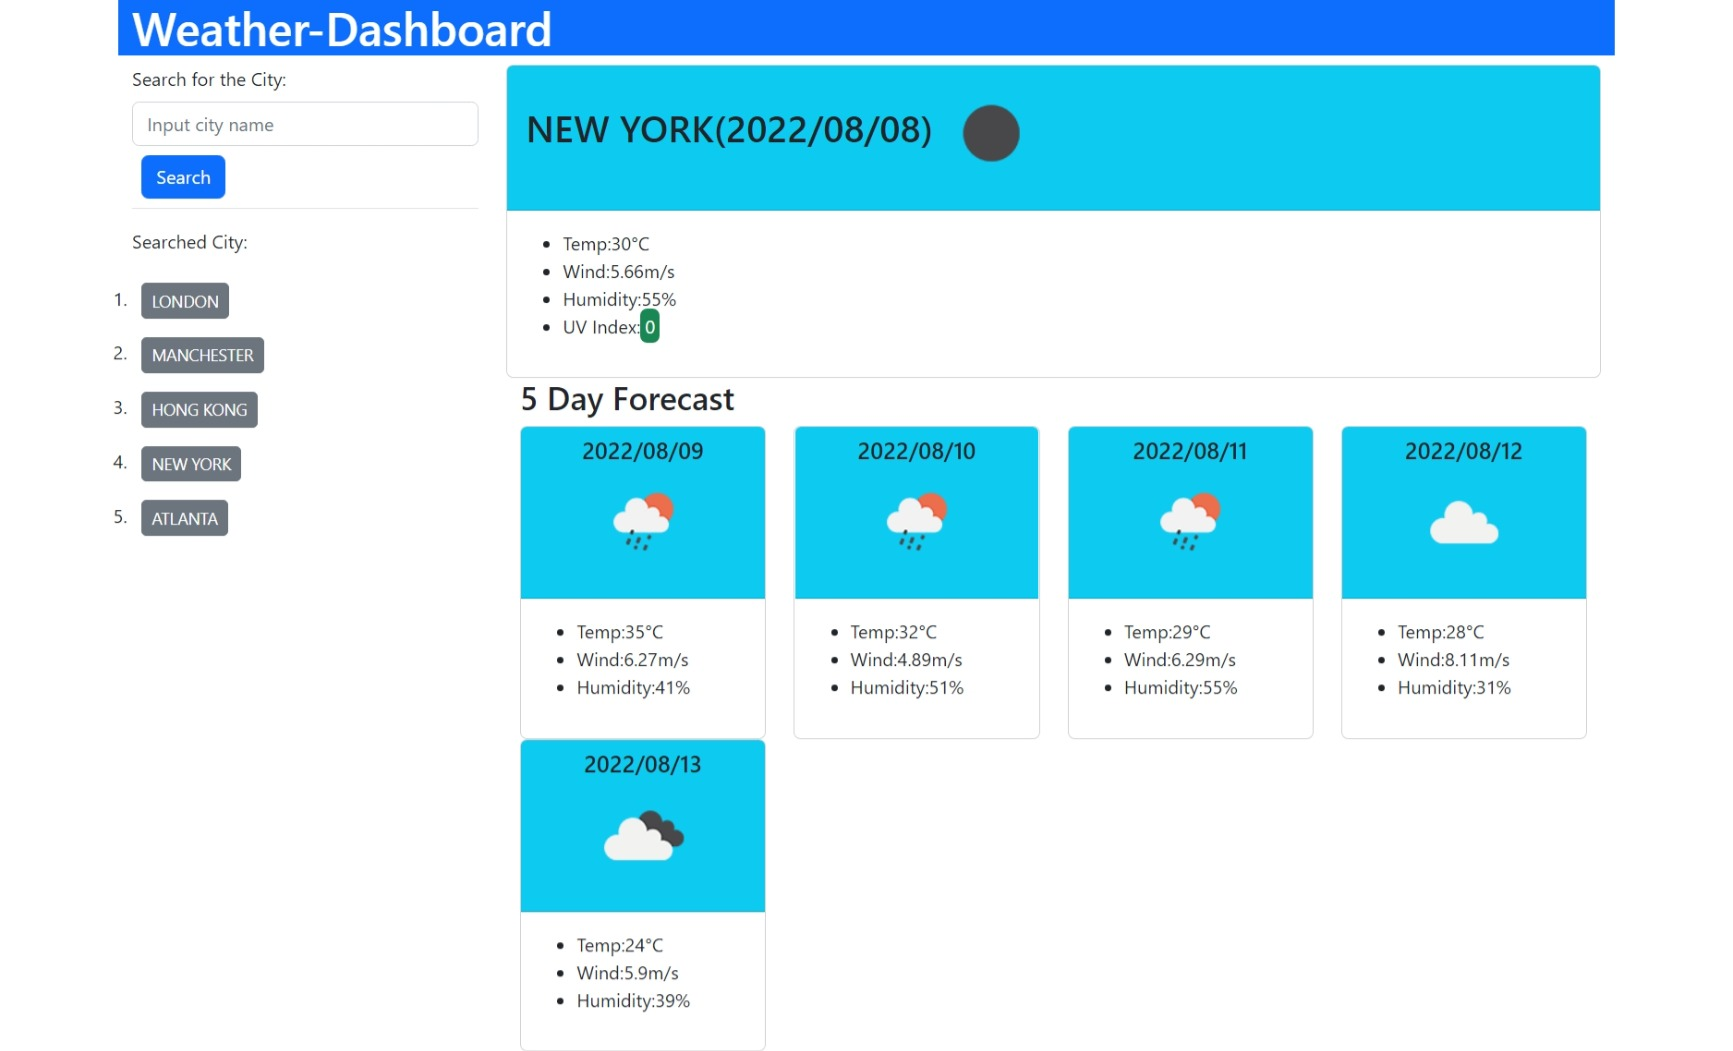
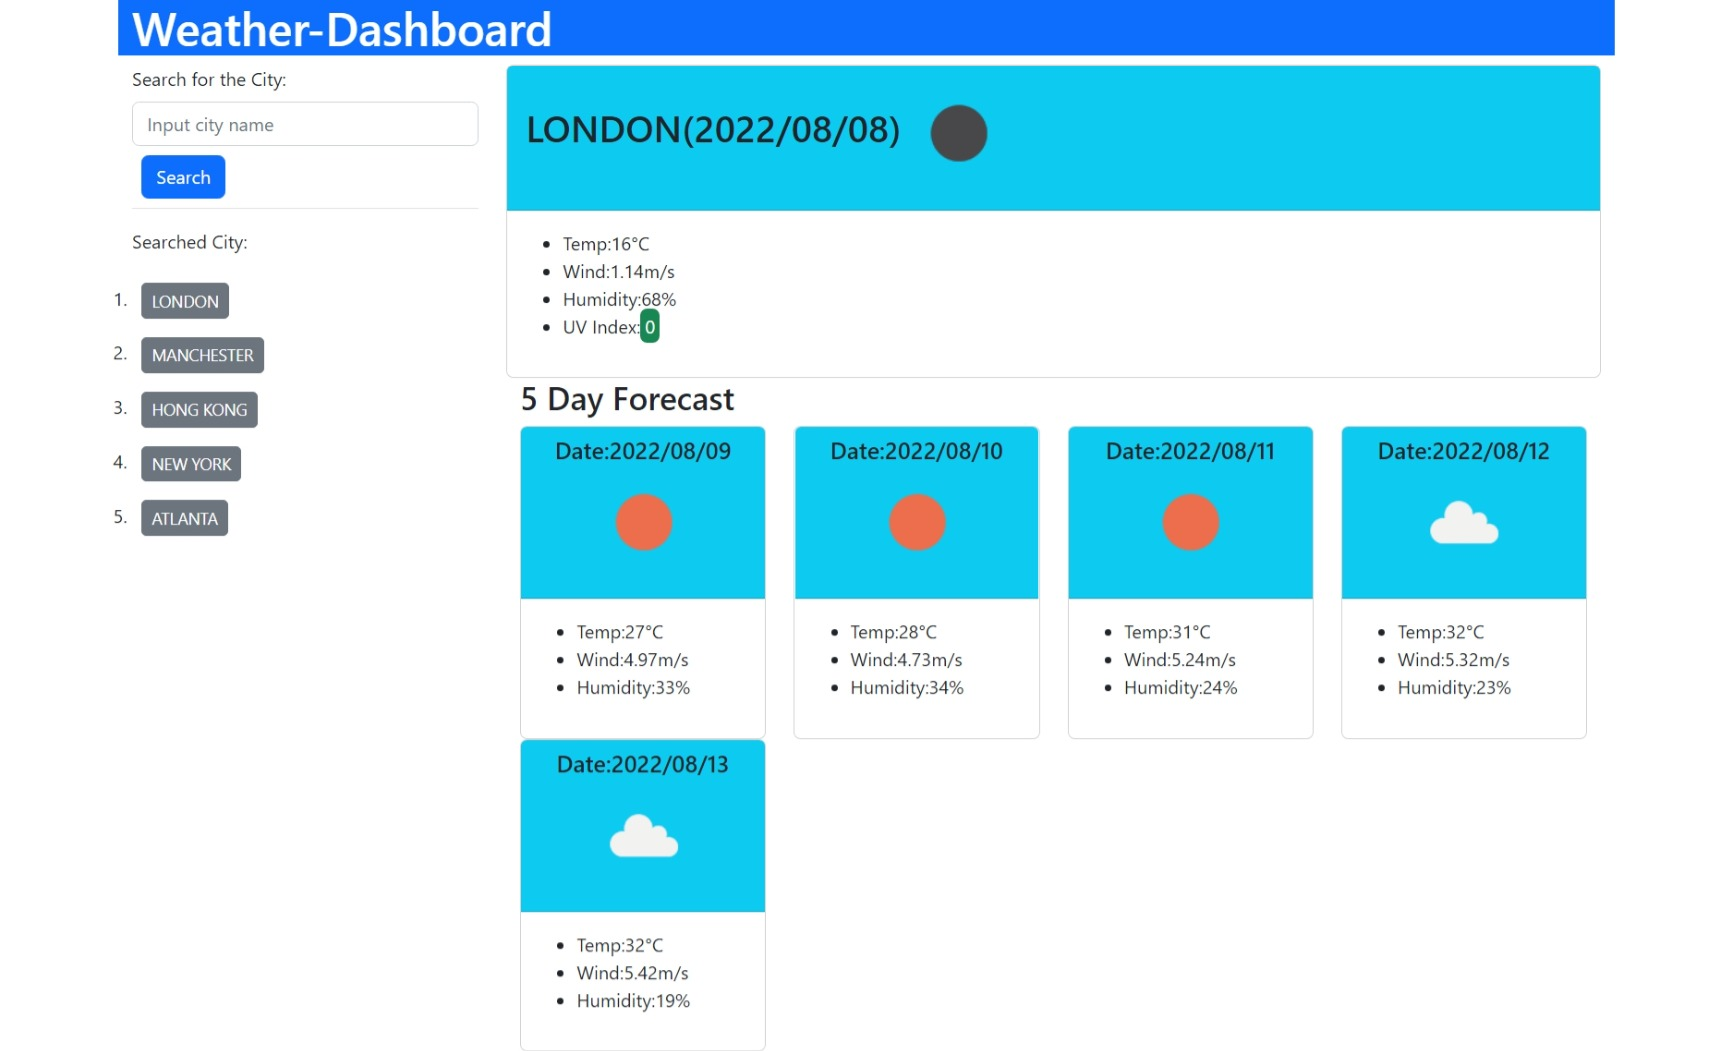
revise the readme file

diff --git a/index.html b/index.html
@@ -53,7 +53,7 @@
                     <div class="col-lg-3 col-sm-5">
                         <div class="card text-center text-dark">
                             <div class="card-header bg-info">
-                                <h5 class="card-title" ><span id="1date"></span><span id="1weather"></span></h5>
+                                <h5 class="card-title" >Date:<span id="1date"></span><span id="1weather"></span></h5>
                             </div>
                             <div class="card-body text-start ">
                                 <ul>
@@ -68,7 +68,7 @@
                     <div class="col-lg-3 col-sm-5" >
                         <div class="card text-center text-dark">
                             <div class="card-header bg-info">
-                                <h5 class="card-title" ><span id="2date"></span><span id="2weather"></span></h5>
+                                <h5 class="card-title" >Date:<span id="2date"></span><span id="2weather"></span></h5>
                             </div>
                             <div class="card-body text-start">      
                                 <ul>
@@ -83,7 +83,7 @@
                     <div class="col-lg-3 col-sm-5">
                         <div  class="card text-center text-dark">
                             <div class="card-header bg-info">
-                                <h5 class="card-title"><span id="3date"></span><span id="3weather"></span></h5>
+                                <h5 class="card-title">Date:<span id="3date"></span><span id="3weather"></span></h5>
                             </div>
                         
                             <div class="card-body text-start">
@@ -99,7 +99,7 @@
                     <div class="col-lg-3 col-sm-5" >
                         <div class="card text-center text-dark">
                             <div class="card-header bg-info">
-                                <h5 class="card-title" ><span id="4date"></span><span id="4weather"></span></h5>
+                                <h5 class="card-title" >Date:<span id="4date"></span><span id="4weather"></span></h5>
                             </div>
                             <div class="card-body text-start">              
                                 <ul>
@@ -115,7 +115,7 @@
                     <div class="col-lg-3 col-sm-5">
                         <div class="card text-center text-dark">
                             <div class="card-header bg-info">
-                                <h5 class="card-title" ><span id="5date"></span><span id="5weather"></span></h5>
+                                <h5 class="card-title" >Date:<span id="5date"></span><span id="5weather"></span></h5>
                             </div>
                             <div class="card-body text-start">                    
                             <ul>

diff --git a/README.md b/README.md
@@ -2,10 +2,13 @@
 
 * Description
 
-The Challenge of the Coding boot camp of University of Birmingham this week is to build a weather dashboard that run in the browser with feature dynamically updated HTML and CSS.
+  The Challenge of the Coding boot camp of University of Birmingham this week is to build a weather dashboard that run in the browser with feature dynamically updated HTML and CSS.
 
-This Dashboard used the OpenWeather One Call API to retrieve weather data for cities and the localStorage to record searched city name.
+  This Dashboard used the OpenWeather One Call API to retrieve weather data for cities and the localStorage to record searched city name.
 
+  The code was then checked at the following website for the web accessiblity and the markup
+  * https://wave.webaim.org/
+  * https://validator.w3.org/
 
 * Screenshot of deployed Application
 
